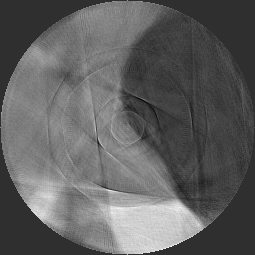
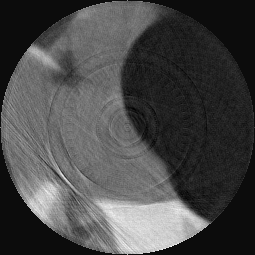
changed completion

diff --git a/src/train_completion.py b/src/train_completion.py
@@ -16,21 +16,25 @@ def train(epoch, n_pre_train):
 
         data = Variable(data).cuda()
 
+        # Randomly generate masks.
+        mask = np.empty((args.batch_size, 1, data.shape[2], data.shape[3]))
+
+        for i in range(args.batch_size):
+            n = np.random.randint(2, 9)
+            mask[i] = utils.create_mask(n)
+
+        mask = torch.from_numpy(mask).float()
+        mask = Variable(mask).cuda()
+
         # Pre-train the completion network.
         if epoch < n_pre_train:
-            # Randomly generate a mask.
-            n = np.random.randint(2, 11)
-
-            mask = utils.create_mask(n)
-            mask = torch.from_numpy(mask).float()
-            mask = Variable(mask).cuda()
 
             # Optimize.
             opt_com.zero_grad()
-            # TODO take masked data as input and initialize masked regions with mean value.
-            out = com(data)
 
-            loss_com = pre_loss(torch.mul(out, mask), torch.mul(data, mask))
+            out = com(data, mask)
+
+            loss_com = pre_loss(out, data)
             loss_com.backward()
             opt_com.step()
 
@@ -43,45 +47,29 @@ def train(epoch, n_pre_train):
             real_label = Variable(torch.ones(args.batch_size)).cuda()
             fake_label = Variable(torch.zeros(args.batch_size)).cuda()
 
-            out = com(data)
+            out_com = com(data, mask)
 
             # Random local sample.
             n_x = np.random.randint(0, data.shape[2] - 128)
             n_y = np.random.randint(0, data.shape[3] - 128)
 
             in_local_real = data[:, :, n_x:n_x + 128, n_y:n_y + 128]
-            in_local_fake = out[:, :, n_x:n_x + 128, n_y:n_y + 128]
-
-            # Global sample.
-            in_global_real = F.grid_sample(data, grid)
-            in_global_fake = F.grid_sample(out, grid)
+            in_local_fake = out_com[:, :, n_x:n_x + 128, n_y:n_y + 128]
 
             # Optimize.
-            out = dis(in_local_real, in_global_real)
-            loss_dis = adv_loss(out, real_label)
+            out_dis = dis(in_local_real, data)
+            loss_dis = adv_loss(out_dis, real_label)
 
-            out = dis(in_local_fake, in_global_fake)
-            loss_dis += adv_loss(out, fake_label)
+            out_dis = dis(in_local_fake, out_com)
+            loss_dis += adv_loss(out_dis, fake_label)
 
-            loss_dis.backward(retain_graph=True)
+            loss_dis.backward()
             opt_dis.step()
-
-            # Randomly generate a mask.
-            n = np.random.randint(2, 11)
-
-            mask = utils.create_mask(n)
-            mask = torch.from_numpy(mask).float()
-            mask = Variable(mask).cuda()
 
             # Train completion to fool discriminator.
             opt_com.zero_grad()
 
-            out_com = com(data)
-            in_global_fake = F.grid_sample(out_com, grid)
-
-            out = dis(in_local_fake, in_global_fake)
-
-            loss_com = pre_loss(torch.mul(out_com, mask), torch.mul(data, mask)) + adv_loss(out, real_label)
+            loss_com = pre_loss(out_com, data) + adv_loss(out_dis, real_label)
 
             loss_com.backward()
             opt_com.step()
@@ -90,11 +78,11 @@ def train(epoch, n_pre_train):
 if __name__ == '__main__':
     # Some initial settings
     parser = argparse.ArgumentParser(description='Training of completion network for inpainting.')
-    parser.add_argument('-batch_size', type=int, default=4,
+    parser.add_argument('-batch_size', type=int, default=6,
                         help='Batch size (default = 128).')
     parser.add_argument('-num_workers', type=int, default=1,
                         help='Number of workers to load data (default = 2).')
-    parser.add_argument('-epochs', type=int, default=10,
+    parser.add_argument('-epochs', type=int, default=20,
                         help='Number of epochs (default = 10).')
     parser.add_argument('-csv_dir', type=str, default='../data/locations',
                         help='Location where the .csv file is stored that holds all file names (default = ../data/locations).')
@@ -105,7 +93,7 @@ if __name__ == '__main__':
 
     # Load completion network and discriminator.
     com = model_completion.Completion().cuda()
-    dis = model_completion.Discriminator().cuda()
+    dis = model_completion.Discriminator(args.batch_size).cuda()
 
     # Set up data loader.
     data_set = utils.RadonTransforms(args.csv_dir,
@@ -125,21 +113,8 @@ if __name__ == '__main__':
     pre_loss = nn.MSELoss().cuda()
     adv_loss = nn.BCELoss().cuda()
 
-    # Interpolation to resize input to 256 x 256 for global discriminator.
-    x = np.linspace(-1, 1, 256)
-    y = np.linspace(-1, 1, 256)
-
-    xv, yv = np.meshgrid(x, y)
-
-    grid = np.stack((xv, yv), axis=2)
-    grid = np.expand_dims(grid, 0)
-    grid = np.repeat(grid, args.batch_size, 0)
-
-    grid = torch.from_numpy(grid).float()
-    grid = Variable(grid).cuda()
-
     for epoch in range(args.epochs):
-        train(epoch, 2)
+        train(epoch, 5)
 
         # Save results.
         torch.save(com.state_dict(), '../state_dict/com_epoch_{}.pth'.format(epoch + 1))

diff --git a/src/model_completion.py b/src/model_completion.py
@@ -1,6 +1,8 @@
 import torch
 import torch.nn as nn
 import torch.nn.functional as F
+from torch.autograd import Variable
+import numpy as np
 
 """
     Adversarial network for globally and locally consistent 
@@ -67,16 +69,24 @@ class Completion(nn.Module):
                                         nn.Conv2d(32, 1, 3, 1, 1),
                                         nn.Sigmoid())
 
-    def forward(self, input):
-        output = self.completion(input)
+    def forward(self, input, mask):
+        # Take uncorrupted part of image as input.
+        output = torch.mul(input, 1 - mask)
+
+        # Complete the image.
+        output = self.completion(output)
+
+        # Only return output that had to be completed.
+        output = torch.add(torch.mul(output, mask), torch.mul(input, 1 - mask))
 
         return output
 
 
 class Discriminator(nn.Module):
 
-    def __init__(self):
+    def __init__(self, batch_size):
         super(Discriminator, self).__init__()
+        # Local discriminator.
         self.local_discriminator = nn.Sequential(nn.Conv2d(1, 64, 5, 2),
                                                  nn.BatchNorm2d(64),
                                                  nn.ReLU(),
@@ -93,6 +103,7 @@ class Discriminator(nn.Module):
                                                  nn.BatchNorm2d(512),
                                                  nn.ReLU())
 
+        # Global discriminator.
         self.global_discriminator = nn.Sequential(nn.Conv2d(1, 64, 5, 2),
                                                   nn.BatchNorm2d(64),
                                                   nn.ReLU(),
@@ -111,15 +122,33 @@ class Discriminator(nn.Module):
                                                   nn.Conv2d(512, 512, 5, 2),
                                                   nn.BatchNorm2d(512),
                                                   nn.ReLU())
+
+        # Fully connected layers.
         self.fc1 = nn.Linear(512, 1024)
         self.fc2 = nn.Linear(512, 1024)
         self.fc3 = nn.Linear(2048, 1)
+
+        # Interpolation to resize input to 256 x 256 for global discriminator.
+        x = np.linspace(-1, 1, 256)
+        y = np.linspace(-1, 1, 256)
+
+        xv, yv = np.meshgrid(x, y)
+
+        self.grid = np.stack((xv, yv), axis=2)
+        self.grid = np.expand_dims(self.grid, 0)
+        self.grid = np.repeat(self.grid, batch_size, 0)
+
+        self.grid = torch.from_numpy(self.grid).float()
+        self.grid = Variable(self.grid).cuda()
 
     def forward(self, local_input, global_input):
         # Forward local and global discriminator.
         local_output = self.local_discriminator(local_input)
         local_output = local_output.view(local_output.shape[0], 1, 1, -1)
         local_output = self.fc1(local_output)
+
+        # Resize global input to 256 x 256 and perform interpolation.
+        global_input = F.grid_sample(global_input, self.grid)
 
         global_output = self.global_discriminator(global_input)
         global_output = global_output.view(local_output.shape[0], 1, 1, -1)

diff --git a/src/radon_transform.py b/src/radon_transform.py
@@ -44,7 +44,7 @@ def single_radon_transform(n):
     data.reshape([utils.N_VOL, utils.N_X, utils.N_Y])
 
     # Perform the radon transformation.
-    angles = np.linspace(0., utils.A, 25, endpoint=False)
+    angles = np.linspace(0., utils.A, utils.N_A, endpoint=False)
 
     rad = radon(data[n], angles, circle=True)
 

diff --git a/src/inpaint_dcgan.py b/src/inpaint_dcgan.py
@@ -21,7 +21,7 @@ radon = radon/127.5 - 1.
 
 
 # Apply mask.
-mask = utils.create_mask(14)
+mask = utils.create_mask(4)
 masked_radon = np.multiply(radon, mask)
 
 

diff --git a/src/reconstruction.py b/src/reconstruction.py
@@ -1,7 +1,6 @@
 import numpy as np
 from skimage.transform import iradon
 import scipy.misc
-import matplotlib.pyplot as plt
 import utils
 
 
